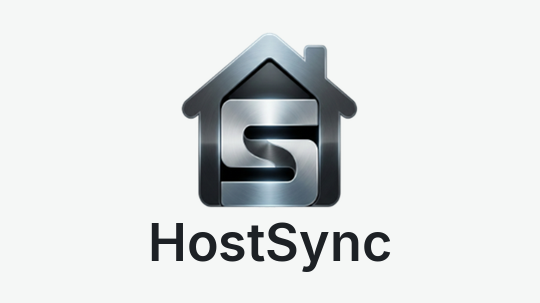
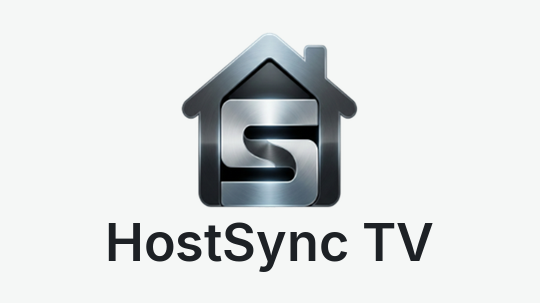
Rebrand channel as HostSync TV (build 128)
- Manifest title HostSync TV, build 128
- Intro reveals "HostSync TV" with a widened wipe
- App tiles captioned "HostSync TV"; image scripts updated
- Release ZIP named HostSyncTV-build<N>.zip
- Privacy policy, terms, and docs pages operated by HostSync
- Keep CabinConciergeAuth registry section for installed devices

Changed region(s): [[0.1778, 0.7129, 0.8, 0.9208]]

diff --git a/docs/terms.html b/docs/terms.html
@@ -3,7 +3,7 @@
 <head>
     <meta charset="UTF-8">
     <meta name="viewport" content="width=device-width, initial-scale=1.0">
-    <title>Terms of Use - Broken Bow Vacation Cabins (Cabin Concierge TV)</title>
+    <title>Terms of Use - HostSync TV</title>
     <style>
         :root {
             --bg-color: #0c1410;
@@ -118,13 +118,14 @@
         <header>
             <span class="badge">Roku Channel Terms of Use</span>
             <h1>Terms of Use</h1>
-            <p class="subtitle">Broken Bow Vacation Cabins – Cabin Concierge TV</p>
-            <p class="last-updated">Last Updated: September 6, 2026</p>
+            <p class="subtitle">HostSync TV</p>
+            <p class="last-updated">Last Updated: October 15, 2026</p>
         </header>
 
         <section>
             <h2>1. Acceptance of Terms</h2>
-            <p>By using or interacting with the Channel on a Roku device at Broken Bow Vacation Cabins, you agree to comply with and be bound by these Terms. If you do not agree to these Terms, please refrain from using the Channel.</p>
+            <p>Welcome to <strong>HostSync TV</strong> ("the Channel"), operated by <strong>HostSync</strong> ("we", "us", or "our") and the guest-facing Roku companion to <a href="https://hostsync.app">HostSync.app</a>. These Terms of Use ("Terms") govern your access to and use of the Channel on Roku devices located within rental properties managed by participating property management companies.</p>
+            <p>By using or interacting with HostSync TV on a Roku device at a participating rental property, you agree to comply with and be bound by these Terms. If you do not agree to these Terms, please refrain from using the Channel.</p>
         </section>
 
         <section>
@@ -151,12 +152,12 @@
 
         <section>
             <h2>5. Intellectual Property Rights</h2>
-            <p>All software code, visual designs, graphics, branding, text, and curated recommendations within the Channel are the exclusive property of Broken Bow Vacation Cabins or its content licensors. You are granted a limited, non-exclusive, non-transferable license to view and interact with the Channel during your stay.</p>
+            <p>Software code, visual designs, graphics, branding, text, and curated recommendations within the Channel belong to HostSync, participating property management companies, or their respective licensors. HostSync TV branding identifies the platform; property management company logos and property-specific content remain the property of their respective owners. You are granted a limited, non-exclusive, non-transferable license to view and interact with the Channel during your stay.</p>
         </section>
 
         <section>
             <h2>6. Disclaimer of Warranties & Limitation of Liability</h2>
-            <p>THE CHANNEL IS PROVIDED ON AN "AS IS" AND "AS AVAILABLE" BASIS WITHOUT WARRANTIES OF ANY KIND, EXPRESS OR IMPLIED. TO THE FULLEST EXTENT PERMITTED BY LAW, BROKEN BOW VACATION CABINS DISCLAIMS ALL WARRANTIES, INCLUDING MERCHANTABILITY AND FITNESS FOR A PARTICULAR PURPOSE.</p>
+            <p>THE CHANNEL IS PROVIDED ON AN "AS IS" AND "AS AVAILABLE" BASIS WITHOUT WARRANTIES OF ANY KIND, EXPRESS OR IMPLIED. TO THE FULLEST EXTENT PERMITTED BY LAW, HOSTSYNC DISCLAIMS ALL WARRANTIES, INCLUDING MERCHANTABILITY AND FITNESS FOR A PARTICULAR PURPOSE.</p>
             <p>WE SHALL NOT BE LIABLE FOR ANY INDIRECT, INCIDENTAL, OR CONSEQUENTIAL DAMAGES ARISING FROM YOUR USE OF OR INABILITY TO USE THE CHANNEL OR ANY RELIANCE UPON INFORMATION DISPLAYED THEREIN.</p>
         </section>
 
@@ -167,18 +168,17 @@
 
         <section>
             <h2>8. Contact Information</h2>
-            <p>If you have questions regarding these Terms of Use, please contact property management:</p>
+            <p>If you have questions regarding these Terms of Use, please contact HostSync. For questions about your reservation or property, contact your property management company:</p>
             <ul>
-                <li><strong>Email:</strong> support@brokenbowvacationcabins.com</li>
-                <li><strong>Website:</strong> <a href="https://brokenbowvacationcabins.com" target="_blank" rel="noopener noreferrer">brokenbowvacationcabins.com</a></li>
+                <li><strong>Email:</strong> support@hostsync.app</li>
+                <li><strong>Website:</strong> <a href="https://hostsync.app" target="_blank" rel="noopener noreferrer">hostsync.app</a></li>
                 <li><strong>Privacy Policy:</strong> <a href="index.html">View Privacy Policy</a></li>
             </ul>
         </section>
 
         <footer>
-            <p>&copy; 2026 Broken Bow Vacation Cabins. All rights reserved.</p>
+            <p>&copy; 2026 HostSync. All rights reserved.</p>
         </footer>
     </div>
 </body>
 </html>
-

diff --git a/docs/index.html b/docs/index.html
@@ -3,7 +3,7 @@
 <head>
     <meta charset="UTF-8">
     <meta name="viewport" content="width=device-width, initial-scale=1.0">
-    <title>Privacy Policy - Broken Bow Vacation Cabins (Cabin Concierge TV)</title>
+    <title>Privacy Policy - HostSync TV</title>
     <style>
         :root {
             --bg-color: #0c1410;
@@ -129,13 +129,14 @@
         <header>
             <span class="badge">Roku Channel Privacy Disclosure</span>
             <h1>Privacy Policy</h1>
-            <p class="subtitle">Broken Bow Vacation Cabins – Cabin Concierge TV</p>
-            <p class="last-updated">Last Updated: September 6, 2026</p>
+            <p class="subtitle">HostSync TV</p>
+            <p class="last-updated">Last Updated: October 15, 2026</p>
         </header>
 
         <section>
             <h2>1. Overview & Purpose</h2>
-            <p>This Privacy Policy describes how the <strong>Broken Bow Vacation Cabins</strong> Roku Channel ("Cabin Concierge TV", "the Channel", "we", "us", or "our") processes, displays, and protects information when used on Roku devices installed at our rental properties.</p>
+            <p>This Privacy Policy describes how <strong>HostSync TV</strong> ("the Channel"), operated by <strong>HostSync</strong> ("we", "us", or "our"), processes, displays, and protects information when used on Roku devices installed at rental properties managed by participating property management companies. HostSync TV is the guest-facing Roku companion to <a href="https://hostsync.app">HostSync.app</a>.</p>
+            <p>The Channel provides property details, local area recommendations, weather forecasts, house rules, checkout procedures, and personalized welcome screens. Property management companies supply property-specific content and may display their own branding.</p>
         </section>
 
         <section>
@@ -210,18 +211,17 @@
 
         <section>
             <h2>8. Contact Us</h2>
-            <p>If you have any questions or concerns regarding this Privacy Policy or data handling in the Broken Bow Vacation Cabins Roku Channel, please contact property management:</p>
+            <p>If you have any questions or concerns regarding this Privacy Policy or data handling in HostSync TV, please contact HostSync. For questions about your reservation or property, contact your property management company:</p>
             <ul>
-                <li><strong>Email:</strong> support@hostsync.com</li>
-                <li><strong>Website:</strong> <a href="https://brokenbowvacationcabins.com" target="_blank" rel="noopener noreferrer">brokenbowvacationcabins.com</a></li>
+                <li><strong>Email:</strong> support@hostsync.app</li>
+                <li><strong>Website:</strong> <a href="https://hostsync.app" target="_blank" rel="noopener noreferrer">hostsync.app</a></li>
                 <li><strong>Terms of Use:</strong> <a href="terms.html">View Terms of Use</a></li>
             </ul>
         </section>
 
         <footer>
-            <p>&copy; 2026 Broken Bow Vacation Cabins. All rights reserved.</p>
+            <p>&copy; 2026 HostSync. All rights reserved.</p>
         </footer>
     </div>
 </body>
 </html>
-

diff --git a/docs/privacy.html b/docs/privacy.html
@@ -3,7 +3,7 @@
 <head>
     <meta charset="UTF-8">
     <meta name="viewport" content="width=device-width, initial-scale=1.0">
-    <title>Privacy Policy - Broken Bow Vacation Cabins (Cabin Concierge TV)</title>
+    <title>Privacy Policy - HostSync TV</title>
     <style>
         :root {
             --bg-color: #0c1410;
@@ -129,13 +129,14 @@
         <header>
             <span class="badge">Roku Channel Privacy Disclosure</span>
             <h1>Privacy Policy</h1>
-            <p class="subtitle">Broken Bow Vacation Cabins – Cabin Concierge TV</p>
-            <p class="last-updated">Last Updated: September 6, 2026</p>
+            <p class="subtitle">HostSync TV</p>
+            <p class="last-updated">Last Updated: October 15, 2026</p>
         </header>
 
         <section>
             <h2>1. Overview & Purpose</h2>
-            <p>This Privacy Policy describes how the <strong>Broken Bow Vacation Cabins</strong> Roku Channel ("Cabin Concierge TV", "the Channel", "we", "us", or "our") processes, displays, and protects information when used on Roku devices installed at our rental properties.</p>
+            <p>This Privacy Policy describes how <strong>HostSync TV</strong> ("the Channel"), operated by <strong>HostSync</strong> ("we", "us", or "our"), processes, displays, and protects information when used on Roku devices installed at rental properties managed by participating property management companies. HostSync TV is the guest-facing Roku companion to <a href="https://hostsync.app">HostSync.app</a>.</p>
+            <p>The Channel provides property details, local area recommendations, weather forecasts, house rules, checkout procedures, and personalized welcome screens. Property management companies supply property-specific content and may display their own branding.</p>
         </section>
 
         <section>
@@ -210,18 +211,17 @@
 
         <section>
             <h2>8. Contact Us</h2>
-            <p>If you have any questions or concerns regarding this Privacy Policy or data handling in the Broken Bow Vacation Cabins Roku Channel, please contact property management:</p>
+            <p>If you have any questions or concerns regarding this Privacy Policy or data handling in HostSync TV, please contact HostSync. For questions about your reservation or property, contact your property management company:</p>
             <ul>
-                <li><strong>Email:</strong> support@hostsync.com</li>
-                <li><strong>Website:</strong> <a href="https://brokenbowvacationcabins.com" target="_blank" rel="noopener noreferrer">brokenbowvacationcabins.com</a></li>
+                <li><strong>Email:</strong> support@hostsync.app</li>
+                <li><strong>Website:</strong> <a href="https://hostsync.app" target="_blank" rel="noopener noreferrer">hostsync.app</a></li>
                 <li><strong>Terms of Use:</strong> <a href="terms.html">View Terms of Use</a></li>
             </ul>
         </section>
 
         <footer>
-            <p>&copy; 2026 Broken Bow Vacation Cabins. All rights reserved.</p>
+            <p>&copy; 2026 HostSync. All rights reserved.</p>
         </footer>
     </div>
 </body>
 </html>
-

diff --git a/tools/apps_script_recommendations_onboarding.js b/tools/apps_script_recommendations_onboarding.js
@@ -1,4 +1,4 @@
-// Cabin Concierge TV - Recommendations onboarding form handler
+// HostSync TV - Recommendations onboarding form handler
 // Google Apps Script trigger: onFormSubmit (installable trigger on the Sheet
 // that collects Google Form responses for new local-business recommendations).
 //

diff --git a/tools/apps_script_reservation_sync.js b/tools/apps_script_reservation_sync.js
@@ -1,5 +1,5 @@
 /*
- * Cabin Concierge Roku reservation sync for Google Apps Script.
+ * HostSync TV Roku reservation sync for Google Apps Script.
  *
  * Required Script Properties:
  * TRACK_OPTIONS_JSON       JSON-serialized UrlFetchApp options for Track PMS.

diff --git a/README.md b/README.md
@@ -1,6 +1,6 @@
-# Cabin Concierge TV - 100% Native Roku SceneGraph Channel Package
+# HostSync TV - 100% Native Roku SceneGraph Channel Package
 
-This is a complete, standalone Roku channel written in native BrightScript and Roku SceneGraph (RSG).
+HostSync TV is the guest-facing Roku companion to [HostSync.app](https://hostsync.app), the property management and field-worker platform. This is a complete, standalone Roku channel written in native BrightScript and Roku SceneGraph (RSG).
 
 ## Structure:
 - `manifest`: Channel metadata, icon paths, and 1080p FHD resolution declarations.
@@ -29,7 +29,7 @@ SET brand_logo_path = '<org_id>/logo.png'
 WHERE org_id = '<org_id>';
 ```
 
-Keep paths to letters, numbers, hyphens, underscores, periods, and slashes. The Roku app builds the Storage URI from the configured Supabase project URL; `brand_logo_url` remains as a compatibility fallback. The bucket is public-read because the Roku image node cannot attach Supabase authorization headers; only authorized Supabase users can upload through the dashboard. The Roku platform's pre-launch splash is static. On every channel launch the app then plays a short HostSync intro (`components/HostSyncIntro.xml`): it starts on the same image as the static splash, glides the HS logo up with a subtle overshoot, then reveals the "HostSync" name beneath it while the logo settles through diminishing rebounds. The logo comes to rest as the name reveal finishes. The assigned property and PMC logo load in the background during the intro, after which the app displays the matching PMC logo briefly before opening the guest interface. Missing or failed logos use the generic HS app icon.
+Keep paths to letters, numbers, hyphens, underscores, periods, and slashes. The Roku app builds the Storage URI from the configured Supabase project URL; `brand_logo_url` remains as a compatibility fallback. The bucket is public-read because the Roku image node cannot attach Supabase authorization headers; only authorized Supabase users can upload through the dashboard. The Roku platform's pre-launch splash is static. On every channel launch the app then plays a short HostSync TV intro (`components/HostSyncIntro.xml`): it starts on the same image as the static splash, glides the HS logo up with a subtle overshoot, then reveals the "HostSync TV" name beneath it while the logo settles through diminishing rebounds. The logo comes to rest as the name reveal finishes. The assigned property and PMC logo load in the background during the intro, after which the app displays the matching PMC logo briefly before opening the guest interface. Missing or failed logos use the generic HS app icon.
 
 Global house rules, recommendations, and checkout tasks use `property_id = NULL`. Use a matching `properties.id` in `property_id` for unit-specific content.
 
@@ -89,7 +89,13 @@ Set a new `build_version` in `manifest` for every uploaded build. Create a clean
 .\tools\build_release.ps1
 ```
 
-The script writes `release/CabinConciergeTV-build<build_version>.zip`, verifies the required package entries, and rejects a manifest containing an OpenWeather credential. Sideload this freshly generated ZIP for device acceptance testing and use the same artifact for Roku submission.
+The script writes `release/HostSyncTV-build<build_version>.zip`, verifies the required package entries, and rejects a manifest containing an OpenWeather credential. Sideload this freshly generated ZIP for device acceptance testing and use the same artifact for Roku submission.
+
+The FHD, HD, and SD app tiles include the "HostSync TV" wordmark. Regenerate them on Windows with `tools/resize_custom_icons.ps1`, or use `tools/generate_images.ps1` to regenerate all artwork. Both use the shared `tools/HSBrandImage.ps1` helper and bundled Inter font. The static launch splash and generic company-logo fallback intentionally remain logo-only so the animated wordmark is not duplicated.
+
+When publishing, set the Roku Dashboard app name to **HostSync TV**, update its listing artwork and screenshots, and point its policy links to the published HostSync TV pages in `docs/`. These store settings are not changed by uploading the package. Public support is **support@hostsync.app**, and the product website is **https://hostsync.app**.
+
+The rebrand keeps the existing `CabinConciergeAuth` Roku registry section so installed TVs retain their device assignments. Do not rename that storage section solely to match the product name.
 
 ## How to Sideload:
 1. Enable Developer Mode on your Roku TV remote:

diff --git a/TERMS_OF_USE.md b/TERMS_OF_USE.md
@@ -1,14 +1,14 @@
-# Terms of Use for Broken Bow Vacation Cabins (Cabin Concierge TV)
+# Terms of Use for HostSync TV
 
-**Last Updated:** September 6, 2026
+**Last Updated:** October 15, 2026
 
-Welcome to the **Broken Bow Vacation Cabins** Roku Channel ("Cabin Concierge TV", "the Channel", "we", "us", or "our"). These Terms of Use ("Terms") govern your access to and use of the Channel on Roku devices located within our vacation rental properties.
+Welcome to **HostSync TV** ("the Channel"), operated by **HostSync** ("we", "us", or "our") and the guest-facing Roku companion to [HostSync.app](https://hostsync.app). These Terms of Use ("Terms") govern your access to and use of the Channel on Roku devices located within rental properties managed by participating property management companies.
 
 ---
 
 ## 1. Acceptance of Terms
 
-By using or interacting with the Channel on a Roku device at Broken Bow Vacation Cabins, you agree to comply with and be bound by these Terms. If you do not agree to these Terms, please refrain from using the Channel.
+By using or interacting with HostSync TV on a Roku device at a participating rental property, you agree to comply with and be bound by these Terms. If you do not agree to these Terms, please refrain from using the Channel.
 
 ---
 
@@ -40,13 +40,13 @@ The Channel integrates with external service providers (including Supabase for p
 
 ## 5. Intellectual Property Rights
 
-All software code, visual designs, graphics, branding, text, and curated recommendations within the Channel are the exclusive property of Broken Bow Vacation Cabins or its content licensors. You are granted a limited, non-exclusive, non-transferable license to view and interact with the Channel during your stay.
+Software code, visual designs, graphics, branding, text, and curated recommendations within the Channel belong to HostSync, participating property management companies, or their respective licensors. HostSync TV branding identifies the platform; property management company logos and property-specific content remain the property of their respective owners. You are granted a limited, non-exclusive, non-transferable license to view and interact with the Channel during your stay.
 
 ---
 
 ## 6. Disclaimer of Warranties & Limitation of Liability
 
-THE CHANNEL IS PROVIDED ON AN "AS IS" AND "AS AVAILABLE" BASIS WITHOUT WARRANTIES OF ANY KIND, EXPRESS OR IMPLIED. TO THE FULLEST EXTENT PERMITTED BY LAW, BROKEN BOW VACATION CABINS DISCLAIMS ALL WARRANTIES, INCLUDING MERCHANTABILITY AND FITNESS FOR A PARTICULAR PURPOSE.
+THE CHANNEL IS PROVIDED ON AN "AS IS" AND "AS AVAILABLE" BASIS WITHOUT WARRANTIES OF ANY KIND, EXPRESS OR IMPLIED. TO THE FULLEST EXTENT PERMITTED BY LAW, HOSTSYNC DISCLAIMS ALL WARRANTIES, INCLUDING MERCHANTABILITY AND FITNESS FOR A PARTICULAR PURPOSE.
 
 WE SHALL NOT BE LIABLE FOR ANY INDIRECT, INCIDENTAL, OR CONSEQUENTIAL DAMAGES ARISING FROM YOUR USE OF OR INABILITY TO USE THE CHANNEL OR ANY RELIANCE UPON INFORMATION DISPLAYED THEREIN.
 
@@ -60,8 +60,7 @@ We reserve the right to update or modify these Terms at any time. Updated Terms 
 
 ## 8. Contact Information
 
-If you have questions regarding these Terms of Use, please contact property management:
+If you have questions regarding these Terms of Use, please contact HostSync. For questions about your reservation or property, contact your property management company:
 
-- **Email:** support@brokenbowvacationcabins.com
-- **Website:** https://brokenbowvacationcabins.com
-
+- **Email:** support@hostsync.app
+- **Website:** https://hostsync.app

diff --git a/PRIVACY_POLICY.md b/PRIVACY_POLICY.md
@@ -1,14 +1,14 @@
-# Privacy Policy for Broken Bow Vacation Cabins (Cabin Concierge TV)
+# Privacy Policy for HostSync TV
 
-**Last Updated:** September 6, 2026
+**Last Updated:** October 15, 2026
 
-This Privacy Policy describes how the **Broken Bow Vacation Cabins** Roku Channel ("Cabin Concierge TV", "the Channel", "we", "us", or "our") processes, displays, and protects information when used on Roku devices installed at our rental properties.
+This Privacy Policy describes how **HostSync TV** ("the Channel"), operated by **HostSync** ("we", "us", or "our"), processes, displays, and protects information when used on Roku devices installed at rental properties managed by participating property management companies. HostSync TV is the guest-facing Roku companion to [HostSync.app](https://hostsync.app).
 
 ---
 
 ## 1. Overview & Purpose
 
-The Channel is a native Roku application designed to serve as an in-cabin digital concierge for guests staying at Broken Bow Vacation Cabins. It provides property details, local area recommendations, weather forecasts, house rules, checkout procedures, and personalized welcome screens.
+The Channel is a native Roku application designed to serve as a digital concierge for guests staying at participating rental properties. It provides property details, local area recommendations, weather forecasts, house rules, checkout procedures, and personalized welcome screens. Property management companies supply property-specific content and may display their own branding.
 
 ---
 
@@ -77,8 +77,7 @@ We may update this Privacy Policy from time to time to reflect updates to the Ch
 
 ## 8. Contact Us
 
-If you have any questions or concerns regarding this Privacy Policy or data handling in the Broken Bow Vacation Cabins Roku Channel, please contact property management:
+If you have any questions or concerns regarding this Privacy Policy or data handling in HostSync TV, please contact HostSync. For questions about your reservation or property, contact your property management company:
 
-- **Email:** support@hostsync.com
-- **Website:** https://brokenbowvacationcabins.com
-
+- **Email:** support@hostsync.app
+- **Website:** https://hostsync.app
